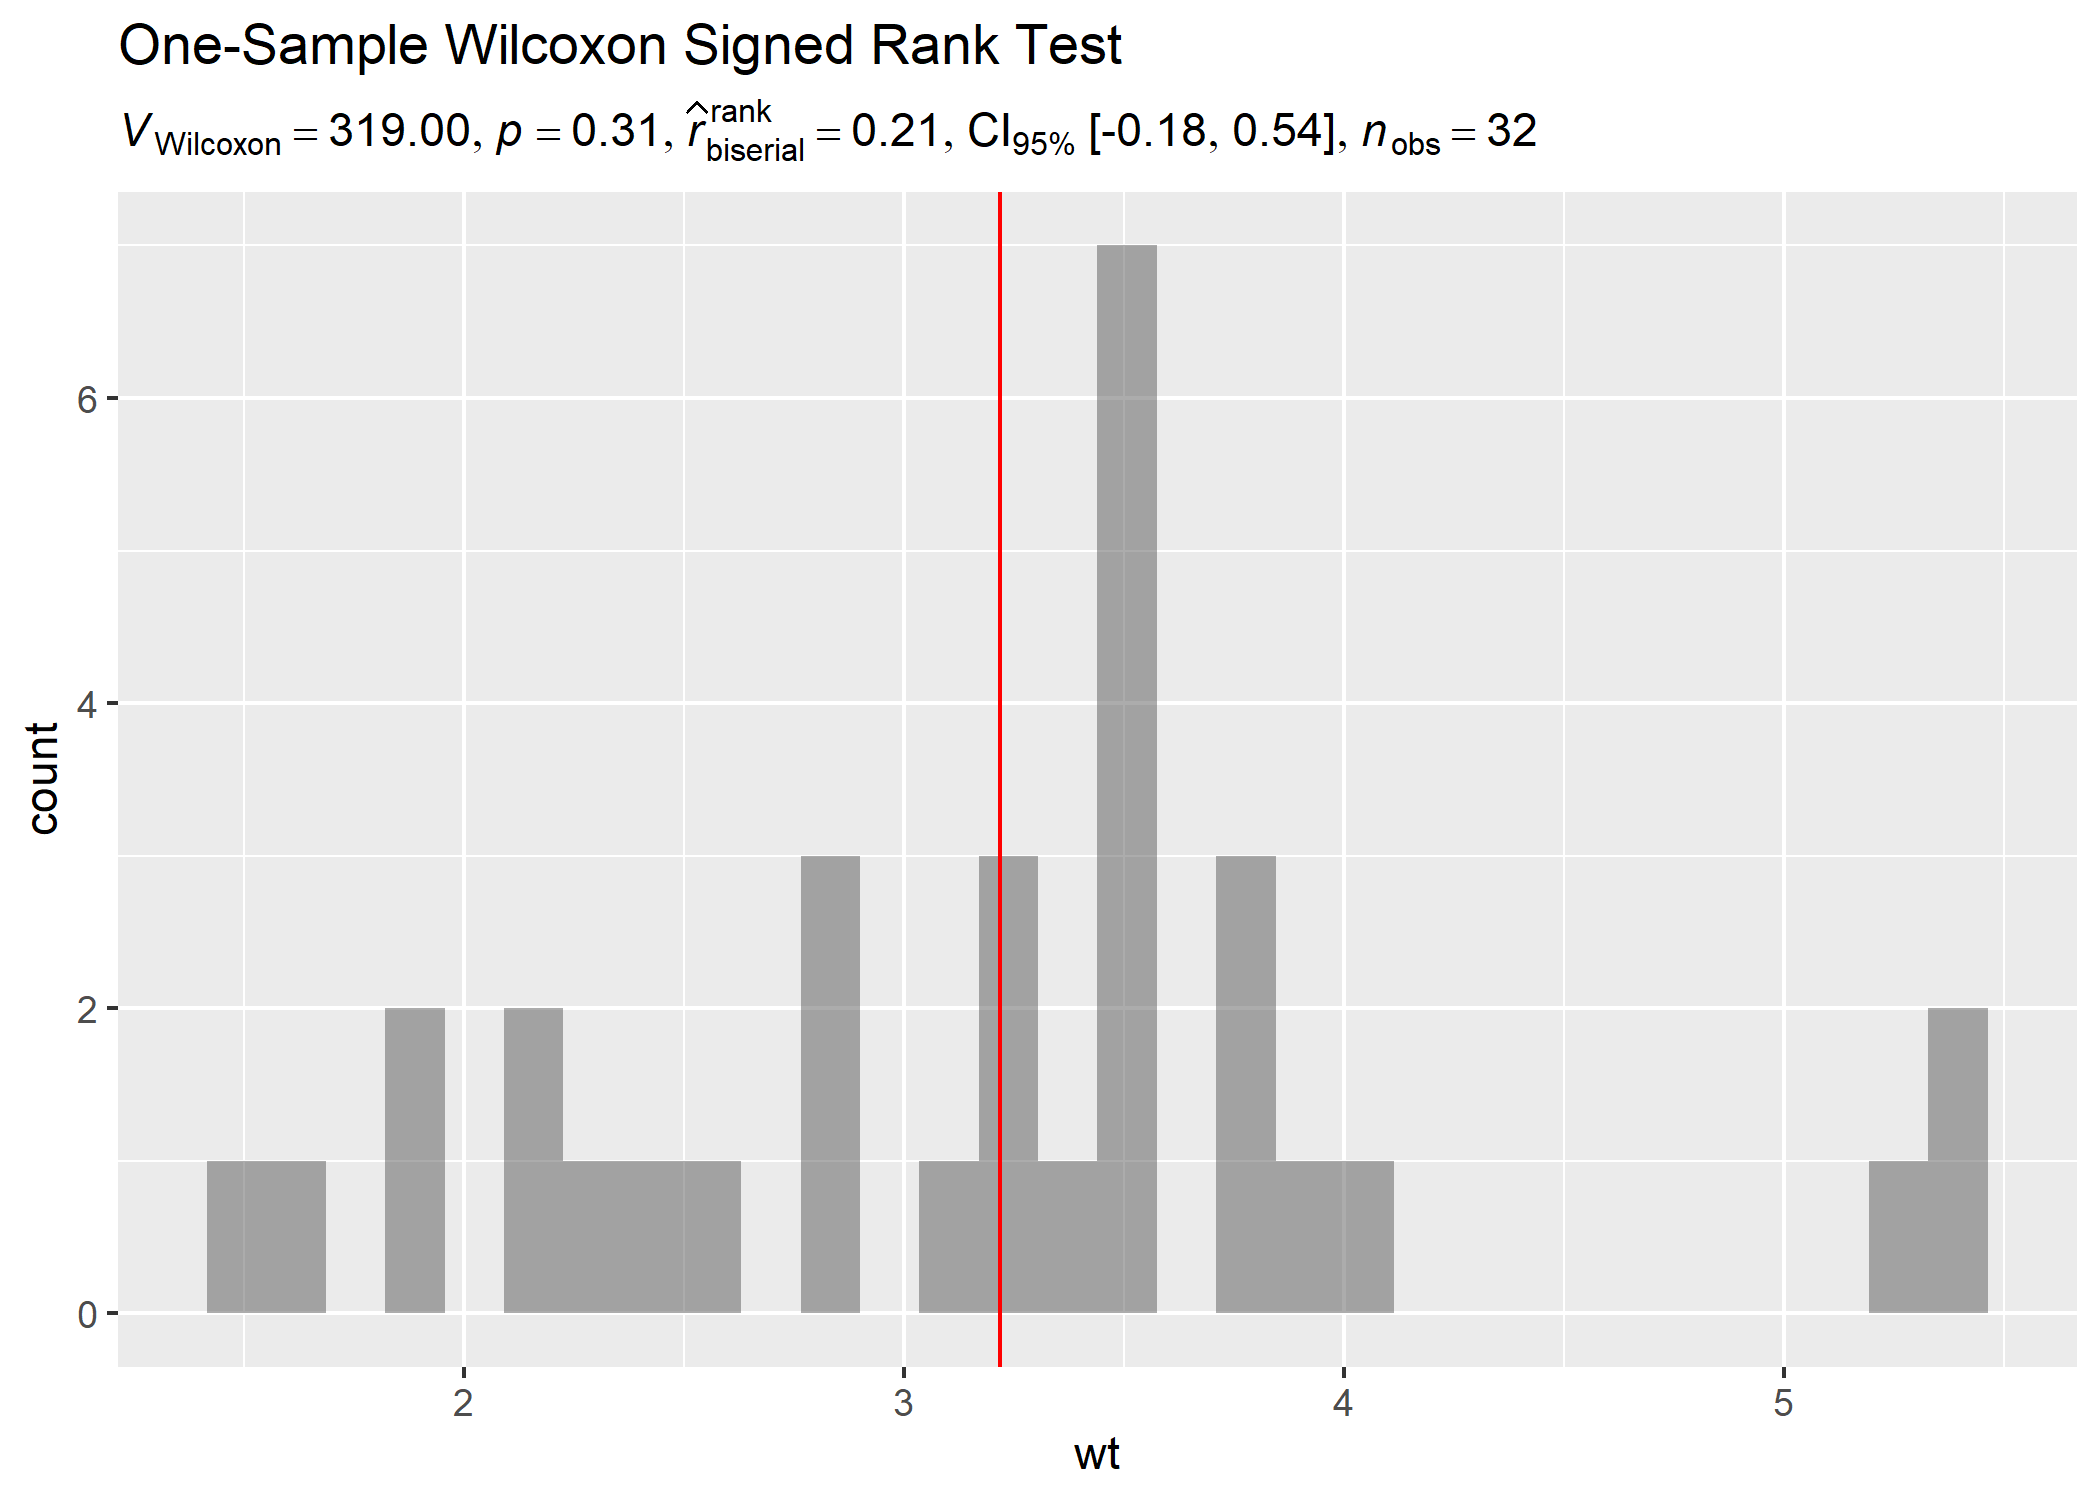
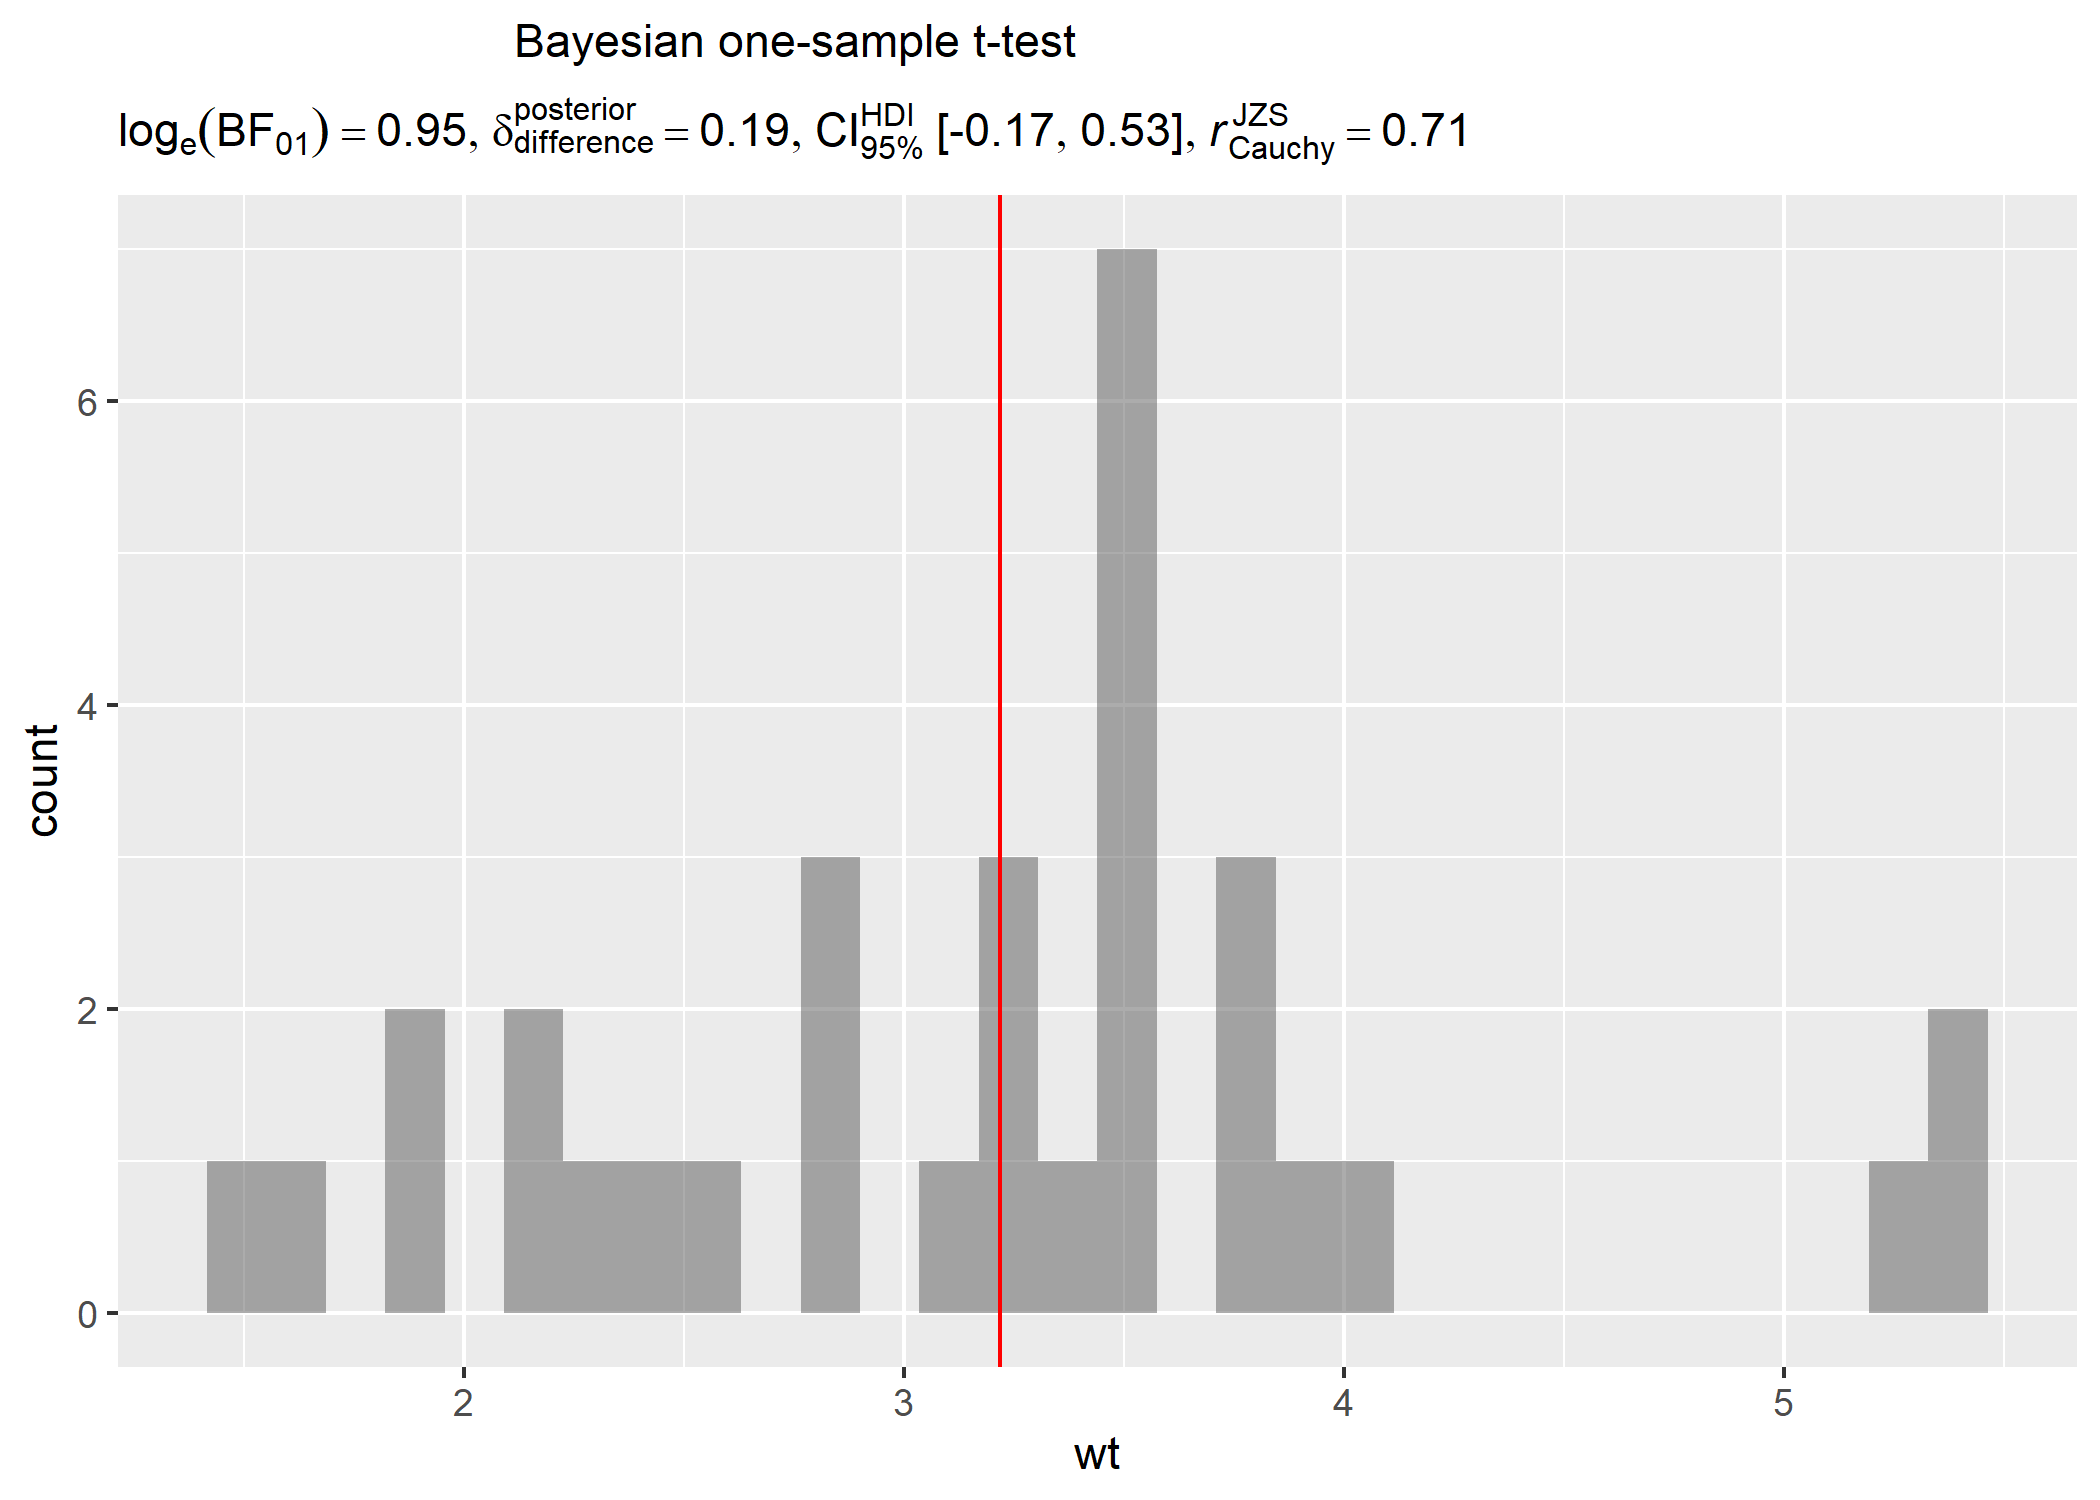
allow longer strings in top.text

Changed region(s): [[0.0619, 0.0, 0.7429, 0.1227], [0.0, 0.4907, 0.031, 0.552], [0.031, 0.2453, 0.0619, 0.276]]

diff --git a/README.md b/README.md
@@ -120,7 +120,7 @@ statistical approach can be modified by changing a single argument:
 ``` r
 library(statsExpressions)
 
-mtcars %>% oneway_anova(cyl, wt, type = "nonparametric") 
+mtcars %>% oneway_anova(cyl, wt, type = "nonparametric")
 #> # A tibble: 1 x 14
 #>   parameter1 parameter2 statistic df.error   p.value
 #>   <chr>      <chr>          <dbl>    <int>     <dbl>
@@ -227,8 +227,8 @@ library(ggplot2)
 
 # displaying mean for each level of `cyl`
 centrality_description(mtcars, cyl, wt) |>
-  ggplot(aes(cyl, wt)) + 
-  geom_point() + 
+  ggplot(aes(cyl, wt)) +
+  geom_point() +
   geom_label(aes(label = expression), parse = TRUE)
 ```
 
@@ -361,14 +361,16 @@ paired.plotProfiles(PrisonStress, "PSSbefore", "PSSafter", subjects = "Subject")
 set.seed(123)
 library(ggplot2)
 
+# dataframe with results
+df_results <- one_sample_test(mtcars, wt, test.value = 3, type = "bayes",
+                              top.text = "Bayesian one-sample t-test")
+
 # creating a histogram plot
 ggplot(mtcars, aes(wt)) +
   geom_histogram(alpha = 0.5) +
   geom_vline(xintercept = mean(mtcars$wt), color = "red") +
-  # adding a caption with a non-parametric one-sample test
   labs(
-    title = "One-Sample Wilcoxon Signed Rank Test",
-    subtitle = one_sample_test(mtcars, wt, test.value = 3, type = "nonparametric")$expression[[1]]
+    subtitle = df_results$expression[[1]]
   )
 ```
 
@@ -404,6 +406,13 @@ For categorical/nominal data - one-sample:
 set.seed(123)
 library(ggplot2)
 
+df_results <- contingency_table(as.data.frame(table(mpg$class)),
+  Var1,
+  counts = Freq,
+  type = "bayes",
+  top.text = "One-sample goodness-of-fit test"
+)
+
 # basic pie chart
 ggplot(as.data.frame(table(mpg$class)), aes(x = "", y = Freq, fill = factor(Var1))) +
   geom_bar(width = 1, stat = "identity") +
@@ -415,8 +424,7 @@ ggplot(as.data.frame(table(mpg$class)), aes(x = "", y = Freq, fill = factor(Var1
     x = NULL,
     y = NULL,
     title = "Pie Chart of class (type of car)",
-    subtitle = contingency_table(as.data.frame(table(mpg$class)), Var1, counts = Freq)$expression[[1]],
-    caption = "One-sample goodness-of-fit test"
+    caption = df_results$expression[[1]]
   )
 ```
 

diff --git a/tests/testthat/_snaps/z_meta_random_bayes.md b/tests/testthat/_snaps/z_meta_random_bayes.md
@@ -1,7 +1,26 @@
 # meta_analysis works - bayesian
 
     Code
-      as.character(subtitle1$expression[[1]])
+      dplyr::select(df, -expression)
     Output
-      [1] "list(log[e] * (BF[\"01\"]) == \"-3.587\", italic(delta)[difference]^\"posterior\" == \"0.596\", CI[\"95%\"]^HDI ~ \"[\" * \"0.321\", \"0.854\" * \"]\", italic(\"r\")[\"Cauchy\"]^\"JZS\" == \"0.707\")"
+      # A tibble: 2 x 14
+        term    effectsize                       estimate std.error conf.level
+        <chr>   <chr>                               <dbl>     <dbl>      <dbl>
+      1 Overall meta-analytic posterior estimate    0.596     0.133       0.95
+      2 tau     meta-analytic posterior estimate    0.270     0.122       0.95
+        conf.low conf.high  bf10 component prior.distribution prior.location
+           <dbl>     <dbl> <dbl> <chr>     <chr>                       <dbl>
+      1    0.321     0.854  36.1 meta      Student's t                     0
+      2    0.106     0.496  36.1 meta      Inverse gamma                   1
+        prior.scale method                                 log_e_bf10
+              <dbl> <chr>                                       <dbl>
+      1       0.707 Bayesian meta-analysis using 'metaBMA'       3.59
+      2       0.15  Bayesian meta-analysis using 'metaBMA'       3.59
+
+---
+
+    Code
+      as.character(df$expression[[1]])
+    Output
+      [1] "list(atop(\"ayyo arecha\", list(log[e] * (BF[\"01\"]) == \"-3.587\", italic(delta)[difference]^\"posterior\" == \"0.596\", CI[\"95%\"]^HDI ~ \"[\" * \"0.321\", \"0.854\" * \"]\", italic(\"r\")[\"Cauchy\"]^\"JZS\" == \"0.707\")))"
 

diff --git a/tests/testthat/_snaps/corr_test.md b/tests/testthat/_snaps/corr_test.md
@@ -86,7 +86,7 @@
     Code
       as.character(subtitle1$expression[[1]])
     Output
-      [1] "list(atop(displaystyle(huh), list(log[e] * (BF[\"01\"]) == \"1.07\", rho[Pearson]^\"posterior\" == \"-0.12\", CI[\"95%\"]^HDI ~ \"[\" * \"-0.28\", \"0.04\" * \"]\", italic(\"r\")[\"beta\"]^\"JZS\" == \"1.41\")))"
+      [1] "list(atop(\"huh is duh\", list(log[e] * (BF[\"01\"]) == \"1.07\", rho[Pearson]^\"posterior\" == \"-0.12\", CI[\"95%\"]^HDI ~ \"[\" * \"-0.28\", \"0.04\" * \"]\", italic(\"r\")[\"beta\"]^\"JZS\" == \"1.41\")))"
 
 # bayes factor (correlation test) - with NAs
 

diff --git a/tests/testthat/_snaps/two_sample_bayes.md b/tests/testthat/_snaps/two_sample_bayes.md
@@ -10,5 +10,5 @@
     Code
       as.character(df$expression[[1]])
     Output
-      [1] "list(atop(displaystyle(bla), list(log[e] * (BF[\"01\"]) == \"-3.70\", italic(delta)[difference]^\"posterior\" == \"1.09\", CI[\"95%\"]^HDI ~ \"[\" * \"0.49\", \"1.70\" * \"]\", italic(\"r\")[\"Cauchy\"]^\"JZS\" == \"0.80\")))"
+      [1] "list(atop(\"bla is ulalala\", list(log[e] * (BF[\"01\"]) == \"-3.70\", italic(delta)[difference]^\"posterior\" == \"1.09\", CI[\"95%\"]^HDI ~ \"[\" * \"0.49\", \"1.70\" * \"]\", italic(\"r\")[\"Cauchy\"]^\"JZS\" == \"0.80\")))"
 
